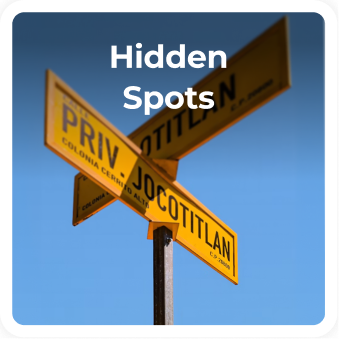
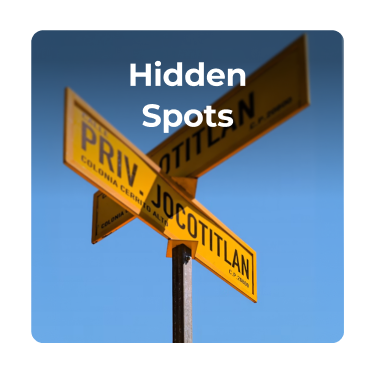
Theme carousel: Figma card size and 33.6px gaps; fix Hidden Spots export margin
Claude-Session: https://claude.ai/code/session_017G5jazSkNc7M5EFFoVJm2w

diff --git a/route/index.html b/route/index.html
@@ -20,7 +20,7 @@ img{display:block}
 /* scene A: themes */
 #sceneA{position:absolute;inset:0}
 #row{position:absolute;left:0;top:0}
-.theme{position:absolute;width:281px;height:281px;transform-origin:50% 50%}
+.theme{position:absolute;width:336.5px;height:336.5px;transform-origin:50% 50%}  /* image = 281px card + shadow margin */
 .theme img{position:absolute;inset:0;width:100%;height:100%;border-radius:inherit}
 #create{left:367px;top:650px;width:475px;height:53px;border-radius:32.6px;background:rgba(255,255,255,.8);
   backdrop-filter:blur(5px);-webkit-backdrop-filter:blur(5px);box-shadow:0 0 20px rgba(0,0,0,.08)}
@@ -159,9 +159,9 @@ const THEME_X=[0,371,686,1000,1315,1630], ROW=[-17,-343,-637,-969];
 const HOLD0=2.3;                       // rest, set the range (1.0 → 1.5 km), then the carousel moves
 const RANGE={spin:[1.0,1.75]}, RV=['0km','0.5km','1.0km','1.5km','2.0km','2.5km','3.0km'], RV0=2, RV1=3;
 const STEPS=[[0.9,1.65],[1.85,2.6],[2.8,3.55]].map(([a,b])=>[a+HOLD0,b+HOLD0]);
-const CARD=281, CAR_GAP=34;   // Figma: 281px cards, 34px apart
+const CARD=281, CAR_GAP=33.6, BOX=CARD/0.835;   // Figma: 281px cards, 33.6px apart (BOX includes the exported shadow margin)
 const rvEls=RV.map(v=>{const e=document.createElement('div');e.className='rv';e.textContent=v;$('rvals').appendChild(e);return e});
-const themes=THEME_X.map((x,i)=>{const d=document.createElement('div');d.className='theme';d.style.left='0px';d.style.top='263px';
+const themes=THEME_X.map((x,i)=>{const d=document.createElement('div');d.className='theme';d.style.left='0px';d.style.top=(403.5-BOX/2)+'px';
   const im=document.createElement('img');im.src=`assets/theme${i}.png`;d.appendChild(im);$('row').appendChild(d);return d});
 const A={in:[0,.5], tap:4.15+HOLD0, out:[4.45+HOLD0,4.85+HOLD0]};
 
@@ -169,7 +169,7 @@ const A={in:[0,.5], tap:4.15+HOLD0, out:[4.45+HOLD0,4.85+HOLD0]};
 /* ---- scene L: the chosen theme folds into a glass card while the route is built ---- */
 const L0=4.5+HOLD0;
 const L={fly:[0,.75], cardIn:[.25,.8], steps:[[.6,1.35],[1.35,2.0],[2.0,2.75]], draw:[.7,2.75], out:[3.0,3.45]};
-const PICK_FROM={x:605-165.8,y:403.5-165.8,w:331.6}, PICK_TO={x:375+26,y:279+26,w:76};
+const PICK_FROM={x:605-BOX*1.18/2,y:403.5-BOX*1.18/2,w:BOX*1.18}, PICK_TO={x:375+26,y:279+26,w:76};
 const B0=L0+3.25;
 
 const BI=1.0;                          // build-in: panels and their contents appear one by one
@@ -201,7 +201,7 @@ function apply(t){
   const cx=[0]; for(let i=1;i<themes.length;i++) cx.push(cx[i-1]+CARD*sc[i-1]/2+CAR_GAP+CARD*sc[i]/2);
   const fi=Math.min(Math.floor(f),themes.length-2), fk=f-fi, off=605-lerp(cx[fi],cx[fi+1],fk);
   themes.forEach((d,i)=>{const near=clamp(1-Math.abs(i-f));
-    d.style.transform=`translate(${off+cx[i]-CARD/2}px,0) scale(${sc[i]})`;d.style.opacity=.5+.5*near;d.style.zIndex=Math.round(near*10)});
+    d.style.transform=`translate(${off+cx[i]-BOX/2}px,0) scale(${sc[i]})`;d.style.opacity=.5+.5*near;d.style.zIndex=Math.round(near*10)});
   $('create').style.transform=`scale(${1-.03*Math.sin(Math.PI*prog(t,A.tap,A.tap+.3))})`;
 
   /* scene L */
